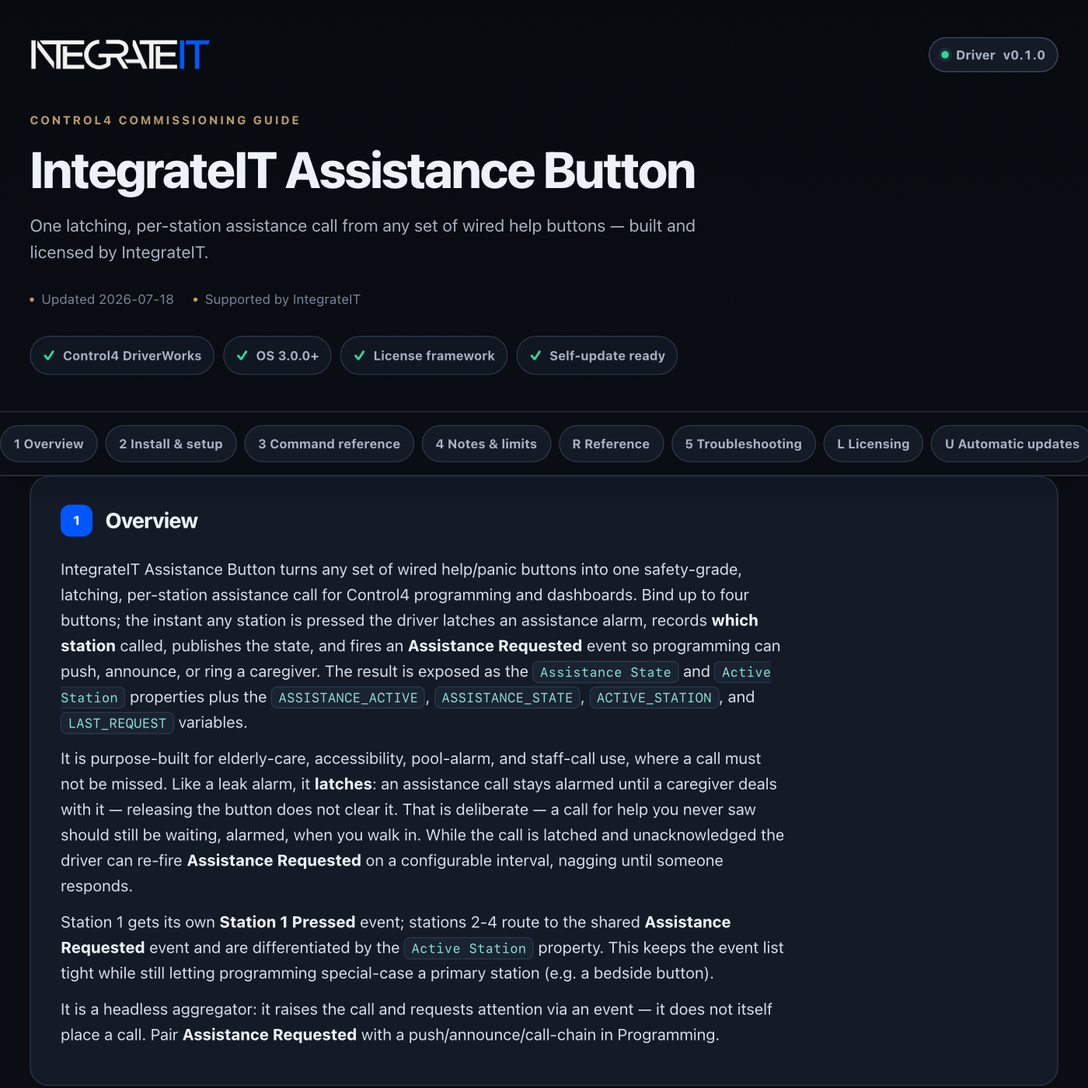
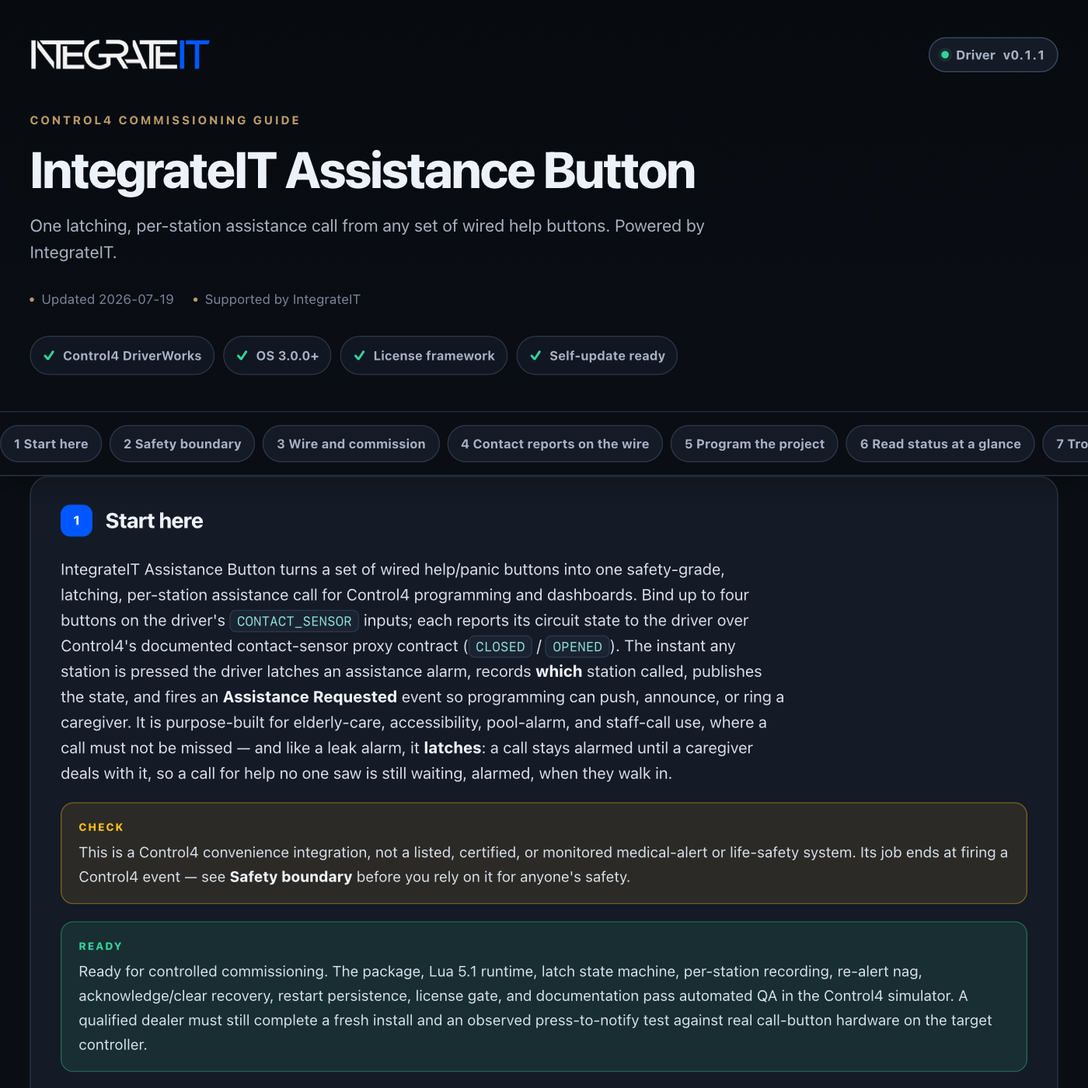
control4: publish driver channel (integrateit_assistance_button 0.1.2)

diff --git a/control4/integrateit_assistance_button/documentation.html b/control4/integrateit_assistance_button/documentation.html
@@ -179,13 +179,13 @@ td code{white-space:normal}
     <div class="wrap">
       <div class="brandbar">
[1 lines of base64/hex data omitted]
-        <span class="version"><span class="word">Driver</span> v0.1.1</span>
+        <span class="version"><span class="word">Driver</span> v0.1.2</span>
       </div>
       <p class="eyebrow">Control4 commissioning guide</p>
       <h1>IntegrateIT Assistance Button</h1>
-      <p class="sub">One latching, per-station assistance call from any set of wired help buttons — built and licensed by IntegrateIT.</p>
+      <p class="sub">One latching, per-station assistance call from any set of wired help buttons. Powered by IntegrateIT.</p>
       <div class="meta">
-        <span>Updated 2026-07-19</span>
+        <span>Updated 2026-07-26</span>
         <span>Supported by IntegrateIT</span>
       </div>
       <div class="readiness" aria-label="Driver capabilities">
@@ -198,56 +198,129 @@ td code{white-space:normal}
   </header>
 
   <div class="toc-wrap">
-    <nav class="toc wrap" aria-label="Documentation sections"><a href="#overview">1 Overview</a><a href="#install">2 Install &amp; setup</a><a href="#commands">3 Command reference</a><a href="#notes">4 Notes &amp; limits</a><a href="#reference">R Reference</a><a href="#troubleshooting">5 Troubleshooting</a><a href="#licensing">L Licensing</a><a href="#updates">U Automatic updates</a><a href="#changelog">V Version history</a></nav>
+    <nav class="toc wrap" aria-label="Documentation sections"><a href="#overview">1 Start here</a><a href="#safety">2 Safety boundary</a><a href="#setup">3 Wire and commission</a><a href="#protocol">4 Contact reports on the wire</a><a href="#programming">5 Program the project</a><a href="#status">6 Read status at a glance</a><a href="#troubleshooting">7 Troubleshoot methodically</a><a href="#trust">8 Ownership, privacy, and licensing</a><a href="#reference">R Reference</a><a href="#licensing">L Licensing</a><a href="#updates">U Automatic updates</a><a href="#changelog">V Version history</a></nav>
   </div>
 
   <main class="wrap">
     <section class="card" id="overview" data-card="overview">
-  <h2><span class="n">1</span> Overview</h2>
-  <p>IntegrateIT Assistance Button turns any set of wired help/panic buttons into one safety-grade, latching, per-station assistance call for Control4 programming and dashboards. Bind up to four buttons; the instant any station is pressed the driver latches an assistance alarm, records <b>which station</b> called, publishes the state, and fires an <b>Assistance Requested</b> event so programming can push, announce, or ring a caregiver. The result is exposed as the <code>Assistance State</code> and <code>Active Station</code> properties plus the <code>ASSISTANCE_ACTIVE</code>, <code>ASSISTANCE_STATE</code>, <code>ACTIVE_STATION</code>, and <code>LAST_REQUEST</code> variables.</p>
-  <p>It is purpose-built for elderly-care, accessibility, pool-alarm, and staff-call use, where a call must not be missed. Like a leak alarm, it <b>latches</b>: an assistance call stays alarmed until a caregiver deals with it — releasing the button does not clear it. That is deliberate — a call for help you never saw should still be waiting, alarmed, when you walk in. While the call is latched and unacknowledged the driver can re-fire <b>Assistance Requested</b> on a configurable interval, nagging until someone responds.</p>
-  <p>Station 1 gets its own <b>Station 1 Pressed</b> event; stations 2-4 route to the shared <b>Assistance Requested</b> event and are differentiated by the <code>Active Station</code> property. This keeps the event list tight while still letting programming special-case a primary station (e.g. a bedside button).</p>
-  <p>It is a headless aggregator: it raises the call and requests attention via an event — it does not itself place a call. Pair <b>Assistance Requested</b> with a push/announce/call-chain in Programming.</p>
+  <h2><span class="n">1</span> Start here</h2>
+  <p>IntegrateIT Assistance Button turns a set of wired help/panic buttons into one safety-grade, latching, per-station assistance call for Control4 programming and dashboards. Bind up to four buttons on the driver's <code>CONTACT_SENSOR</code> inputs; each reports its circuit state to the driver over Control4's documented contact-sensor proxy contract (<code>CLOSED</code> / <code>OPENED</code>). The instant any station is pressed the driver latches an assistance alarm, records <b>which</b> station called, publishes the state, and fires an <b>Assistance Requested</b> event so programming can push, announce, or ring a caregiver. It is purpose-built for elderly-care, accessibility, pool-alarm, and staff-call use, where a call must not be missed — and like a leak alarm, it <b>latches</b>: a call stays alarmed until a caregiver deals with it, so a call for help no one saw is still waiting, alarmed, when they walk in.</p>
+  <div class="note warn">This is a Control4 convenience integration, not a listed, certified, or monitored medical-alert or life-safety system. Its job ends at firing a Control4 event — see <b>Safety boundary</b> before you rely on it for anyone's safety.</div>
+  <div class="note good">Ready for controlled commissioning. The package, Lua 5.1 runtime, latch state machine, per-station recording, re-alert nag, acknowledge/clear recovery, restart persistence, license gate, and documentation pass automated QA in the Control4 simulator. A qualified dealer must still complete a fresh install and an observed press-to-notify test against real call-button hardware on the target controller.</div>
+  <p><b>What you get</b></p>
+  <ul>
+    <li>Aggregates 1-4 wired help/panic buttons (<code>CONTACT_SENSOR</code> bindings) into one latching assistance call</li>
+    <li>Latches on the first press and stays alarmed until a caregiver clears it — never auto-clears on a timeout</li>
+    <li>Records which station called: the <code>Active Station</code> property plus a timestamped <code>LAST_REQUEST</code> variable</li>
+    <li>Station 1 fires its own <b>Station 1 Pressed</b> event; stations 2-4 route to the shared <b>Assistance Requested</b> event</li>
+    <li>Optional re-alert nag re-fires <b>Assistance Requested</b> every N seconds while latched and unacknowledged (default 60 s; 0 = alert once)</li>
+    <li><b>Acknowledge</b> silences the nag while keeping the latch and the record; <b>Clear</b> resets the call</li>
+    <li><b>Test</b> fires a drill from station 1 without latching, to prove the notification programming</li>
+    <li>The latch survives a Director/controller restart, with per-wiring press polarity (contact closed or open)</li>
+  </ul>
 </section>
 
-<section class="card" id="install" data-card="install">
-  <h2><span class="n">2</span> Install &amp; setup</h2>
+<section class="card" id="safety" data-card="safety">
+  <h2><span class="n">2</span> Safety boundary</h2>
+  <div class="note warn">A call for help is only useful if it reaches a person. This driver does not dial a phone, page a monitoring center, or guarantee delivery, and it is not a listed, certified, or monitored medical-alert or emergency-response service. Whether help arrives depends entirely on the notification chain you wire in Programming and on the buttons being wired and set correctly.</div>
+  <p>What the driver <b>does</b>: it watches its bound contacts, latches the call on the first press, records the station, publishes the <code>Assistance State</code> / <code>Active Station</code> properties and the four variables, and fires <b>Assistance Requested</b> (plus <b>Station 1 Pressed</b> for station 1). While latched and unacknowledged it can re-fire the event on the re-alert interval.</p>
+  <p>What it <b>cannot</b> do: place a call, send a page, confirm anyone was reached, or observe anything the buttons do not report. State is derived from bound button reports — it is only as accurate as the buttons and the <b>Press Active State</b> polarity, and anything claiming otherwise would be faking it.</p>
+  <p>Latching is deliberate people-safety behavior. A call stays alarmed until a caregiver runs <b>Clear</b>; releasing the button never clears it. A call that latched before a Director or controller restart comes back alarmed on boot — the latch is persisted, so a reboot never silently drops a call for help. <b>Acknowledge</b> only silences the re-alert nag — it keeps the latch and the record so a responder is marked en route, and it does not reset the call. Because this is not a certified life-safety path, do not present it as a substitute for a monitored medical-alert service where a life depends on the call — pair it with one.</p>
+</section>
+
+<section class="card" id="setup" data-card="setup">
+  <h2><span class="n">3</span> Wire and commission</h2>
   <ol class="steps">
-    <li>Add the driver to a room. In Connections, bind each wired help/panic button to <code>Assistance Button 1</code> … <code>Assistance Button N</code>.</li>
-    <li>Set <code>Number of Buttons</code> to how many you wired.</li>
-    <li>Set <code>Press Active State</code> to match your buttons: most wired call buttons <b>close</b> the circuit when pressed (the default, <b>Contact Closed</b>); some report the opposite — use <b>Contact Open</b> if the alarm reads inverted.</li>
-    <li>Optionally name each station with <code>Station 1 Label</code> … <code>Station 4 Label</code> (e.g. *Master Bath*, *Poolside*) — the names show up in <code>Active Station</code> and <code>LAST_REQUEST</code>.</li>
-    <li>In Programming, react to <b>Assistance Requested</b> (and <b>Station 1 Pressed</b> if you want a primary station to behave differently) by triggering a push notification, an announcement, or a call chain. Read <code>Active Station</code> to say where to go.</li>
-    <li>Optionally set <code>Re-alert Interval (s)</code> above 0 to re-fire <b>Assistance Requested</b> every N seconds while the call stays latched and unacknowledged (a nag for the notification chain). Set it to 0 for alert-once.</li>
-    <li>When a caregiver responds, use <b>Acknowledge</b> to silence the nag while keeping the call on record, then <b>Clear</b> once the person has been helped.</li>
+    <li>Add <b>IntegrateIT Assistance Button</b> to a room. In Connections, bind each wired help/panic button to <b>Assistance Button 1</b> … <b>Assistance Button 4</b>.</li>
+    <li>Set <b>Number of Buttons</b> to how many you wired (1-4). A report on a binding above this count is ignored.</li>
+    <li>Set <b>Press Active State</b> to match the wiring. Most wired call buttons <b>close</b> the circuit when pressed (<b>Contact Closed</b>, the default); use <b>Contact Open</b> if the alarm reads inverted.</li>
+    <li>Optionally name each station with <b>Station 1 Label</b> … <b>Station 4 Label</b> (e.g. *Master Bath*, *Poolside*) — the label shows up in <code>Active Station</code> and <code>LAST_REQUEST</code>. An unnamed station reads as "Station N".</li>
+    <li>Set <b>Re-alert Interval (s)</b>. It defaults to a 60-second nag that re-fires <b>Assistance Requested</b> while a call is latched and unacknowledged; raise it up to 600, or set it to 0 to alert once.</li>
+    <li>In Programming, bind <b>Assistance Requested</b> to a push, an announcement, or a call chain (and <b>Station 1 Pressed</b> if a primary station should behave differently). Read <code>Active Station</code> to say where to go.</li>
+    <li>Prove it: press a wired button and watch <b>Assistance State</b> flip to <b>Assistance Requested</b>, <b>Active Station</b> name the station, and your bound notification fire. Run <b>Test</b> to confirm the drill fires the same notification without latching, then <b>Clear</b> to reset.</li>
   </ol>
 </section>
 
-<section class="card" id="commands" data-card="commands">
-  <h2><span class="n">3</span> Command reference</h2>
+<section class="card" id="protocol" data-card="protocol">
+  <h2><span class="n">4</span> Contact reports on the wire</h2>
+  <p>A dealer watching <b>Debug Mode → Print</b> sees exactly these reports arrive on each button binding:</p>
   <table>
-    <tr><th>Action</th><th>What it does</th></tr>
-    <tr><td>Acknowledge</td><td>Silences the re-alert nag. The call stays latched and the station stays on record — this only stops the repeat notifications so a caregiver is marked en route.</td></tr>
-    <tr><td>Clear</td><td>Resets the call to <b>Clear</b>, cancels the nag, clears the recorded station, and fires <b>Assistance Cleared</b>. Use it once the person has been helped.</td></tr>
-    <tr><td>Test</td><td>Fires <b>Assistance Requested</b> as a drill from station 1, without latching and without changing recorded state — use it to prove the notification programming.</td></tr>
-    <tr><td>Print Configuration</td><td>Prints the button count, polarity, re-alert interval, and current state to the Lua output window.</td></tr>
+    <tr><th>Report</th><th>Meaning</th></tr>
+    <tr><td><code>CLOSED</code> / <code>OPENED</code></td><td>A live circuit change — a genuine transition that can latch and fire</td></tr>
+    <tr><td><code>STATE_CLOSED</code> / <code>STATE_OPENED</code></td><td>The bind-time snapshot of the button's state — absorbed silently (state restored, no event, no nag)</td></tr>
   </table>
-  <p><b>Events:</b> *Assistance Requested*, *Assistance Cleared*, *Assistance Acknowledged*, *Station 1 Pressed*. <b>Variables:</b> <code>ASSISTANCE_ACTIVE</code> (bool), <code>ASSISTANCE_STATE</code> (Clear/Assistance Requested), <code>ACTIVE_STATION</code> (last station to call), <code>LAST_REQUEST</code> (station + timestamp of the latching press).</p>
+  <p>Whether a circuit state counts as <b>pressed</b> follows <b>Press Active State</b>: the default pressed-on-closed treats <code>CLOSED</code> as pressed, and pressed-on-open treats <code>OPENED</code> as pressed. Only a real released→pressed transition fires — a repeated pressed report from a held button is filtered, so a hold never re-nags. A report on a binding above <b>Number of Buttons</b> is dropped.</p>
 </section>
 
-<section class="card" id="notes" data-card="notes">
-  <h2><span class="n">4</span> Notes &amp; limits</h2>
+<section class="card" id="programming" data-card="programming">
+  <h2><span class="n">5</span> Program the project</h2>
+  <table>
+    <tr><th>Action</th><th>What it does</th></tr>
+    <tr><td>Acknowledge</td><td>Silences the re-alert nag; the call stays latched and the station stays on record so a caregiver is marked en route. A no-op when there is no active call.</td></tr>
+    <tr><td>Clear</td><td>Resets the call to <b>Clear</b>, cancels the nag, clears the recorded station, and fires <b>Assistance Cleared</b>. A no-op when there is no active call.</td></tr>
+    <tr><td>Test</td><td>Fires a drill <b>Assistance Requested</b> without latching or changing the recorded station — use it to prove the notification programming. License-gated (see below).</td></tr>
+    <tr><td>Print Configuration</td><td>Prints the button count, polarity, re-alert interval, and current state to the Lua output window. Never prints the license key.</td></tr>
+  </table>
+  <table>
+    <tr><th>Event</th><th>Fires when</th></tr>
+    <tr><td>Assistance Requested</td><td>A station latched the call, the re-alert nag re-fired, a second station called during an active call, or a Test drill ran</td></tr>
+    <tr><td>Assistance Cleared</td><td>A caregiver cleared the call</td></tr>
+    <tr><td>Assistance Acknowledged</td><td>A caregiver acknowledged the call; the nag stops, the latch stays</td></tr>
+    <tr><td>Station 1 Pressed</td><td>Assistance Button 1 was pressed (stations 2-4 route to Assistance Requested)</td></tr>
+  </table>
+  <table>
+    <tr><th>Variable</th><th>Type</th><th>Meaning</th></tr>
+    <tr><td><code>ASSISTANCE_ACTIVE</code></td><td>BOOL</td><td>True while a call is latched</td></tr>
+    <tr><td><code>ASSISTANCE_STATE</code></td><td>STRING</td><td><code>Clear</code> or <code>Assistance Requested</code></td></tr>
+    <tr><td><code>ACTIVE_STATION</code></td><td>STRING</td><td>The station that most recently called, or <code>None</code></td></tr>
+    <tr><td><code>LAST_REQUEST</code></td><td>STRING</td><td>Station label + timestamp of the most recent call</td></tr>
+  </table>
+  <p>Recipes:</p>
   <ul>
-    <li><b>Latching is by design.</b> A call stays alarmed until a caregiver Clears it; releasing the button never clears it. Acknowledge only quiets the nag — it does not clear the latch.</li>
-    <li>A second station pressed while already latched <b>re-fires Assistance Requested</b> and updates <code>Active Station</code> and <code>LAST_REQUEST</code>, but does not re-latch or reset an acknowledgement — the first call remains the active alarm, and a concurrent call for help is never silently swallowed (even after an Acknowledge has quieted the nag).</li>
-    <li><b>The latch survives a controller/Director restart.</b> A call that was latched before a reboot comes back alarmed — the state, active station, and re-alert nag are restored on boot rather than reset to Clear.</li>
-    <li>Only station 1 has a dedicated <b>Station 1 Pressed</b> event; stations 2-4 share <b>Assistance Requested</b>. Read <code>Active Station</code> to tell them apart in Programming.</li>
-    <li>Accuracy follows the buttons: pick the correct <code>Press Active State</code> polarity, or the driver will read pressed/released inverted.</li>
-    <li>The bind-time state of each button is absorbed silently — a station already reading pressed at bind restores the latched state without firing an event or starting a nag.</li>
+    <li><b>When Assistance Requested fires</b> → send a push and announce "Assistance needed at " + <code>ACTIVE_STATION</code>, then start a call chain. Read <code>Active Station</code> so the caregiver knows where to go.</li>
+    <li><b>When Station 1 Pressed fires</b> → special-case the primary (bedside) button — for example flash the bedroom lights on top of the shared notification.</li>
+    <li><b>When Assistance Cleared fires</b> → log the resolution and reset any lights or announcements the call turned on.</li>
   </ul>
+  <div class="note">A second station pressed during an active call re-fires <b>Assistance Requested</b> and moves <code>Active Station</code> / <code>LAST_REQUEST</code> to the new caller — a concurrent emergency is never silently swallowed — but it does not re-latch or reset an acknowledgement. The first call remains the active alarm.</div>
+  <p>Button presses, latching, the re-alert nag, <b>Acknowledge</b>, and <b>Clear</b> are never license-gated — a people-safety recovery must always be reachable, or the alarm becomes an unsilenceable trap. Only the <b>Test</b> drill is blocked under Strict enforcement on an unlicensed controller.</p>
+</section>
+
+<section class="card" id="status" data-card="status">
+  <h2><span class="n">6</span> Read status at a glance</h2>
+  <table>
+    <tr><th>Property / variable</th><th>Healthy result</th><th>What it tells you</th></tr>
+    <tr><td><code>Assistance State</code></td><td><code>Clear</code> when idle; <code>Assistance Requested</code> while latched</td><td>The latched truth — only <b>Clear</b> resets it</td></tr>
+    <tr><td><code>ASSISTANCE_ACTIVE</code></td><td><code>0</code> idle, <code>1</code> latched</td><td>The boolean to gate automation on</td></tr>
+    <tr><td><code>Active Station</code></td><td><code>None</code> when idle; the station label while latched</td><td>Who called most recently — drives "where to go" programming</td></tr>
+    <tr><td><code>LAST_REQUEST</code></td><td>Station label + timestamp of the last call</td><td>Empty until the first call</td></tr>
+  </table>
+  <p>Gate automation on <code>ASSISTANCE_ACTIVE</code> or <code>Assistance State</code> for the latched state, and read <code>Active Station</code> / <code>LAST_REQUEST</code> for who and when. <b>Print Configuration</b> writes the configuration and current state to the Lua output window and never prints the license key.</p>
+</section>
+
+<section class="card" id="troubleshooting" data-card="troubleshooting">
+  <h2><span class="n">7</span> Troubleshoot methodically</h2>
+  <table>
+    <tr><th>Symptom</th><th>Likely cause</th><th>Fix</th></tr>
+    <tr><td>A press does nothing at all</td><td>Button not bound, or bound above <code>Number of Buttons</code></td><td>Bind it to Assistance Button 1-4 and raise <code>Number of Buttons</code> to cover every wired input</td></tr>
+    <tr><td>Idle reads as alarmed, or a press is missed</td><td>Wrong <code>Press Active State</code> polarity</td><td>Match the button — Contact Closed for most wired call buttons, Contact Open if inverted</td></tr>
+    <tr><td>The call won't clear</td><td>Using <b>Acknowledge</b> instead of <b>Clear</b></td><td>Acknowledge only silences the nag; use <b>Clear</b> to reset the call</td></tr>
+    <tr><td>Notifications keep repeating</td><td><code>Re-alert Interval (s)</code> is set and the call is unacknowledged</td><td>Acknowledge to silence the nag, or set the interval to 0 for alert-once</td></tr>
+    <tr><td>Can't tell which station called</td><td>Reading only the event</td><td>Read <code>Active Station</code> / <code>ACTIVE_STATION</code> / <code>LAST_REQUEST</code> — the event alone does not carry the station</td></tr>
+    <tr><td>The call latches but no one is notified</td><td>No notification chain bound to <b>Assistance Requested</b></td><td>Bind a push/announce/call chain in Programming — the driver fires the event, it does not place the call</td></tr>
+    <tr><td><b>Test</b> does nothing on a production controller</td><td>Strict enforcement + unlicensed (Test is the only gated action)</td><td>Activate a license, or use Lenient during commissioning</td></tr>
+  </table>
+  <div class="note">Turn on <code>Debug Mode → Print</code> to watch button transitions and the latch/clear decisions in the Lua output window.</div>
+  <p>Still stuck after those checks: contact IntegrateIT support (address in the Reference below) with the Lua output and your button-wiring details.</p>
+</section>
+
+<section class="card" id="trust" data-card="trust">
+  <h2><span class="n">8</span> Ownership, privacy, and licensing</h2>
+  <p>This package is an original IntegrateIT implementation built on Control4's documented contact-sensor proxy contract. It does not bundle another vendor's runtime, source code, brand assets, trial system, or license. Driver engineering, Control4 integration, documentation, QA, licensing, updates, and support are provided by IntegrateIT.</p>
+  <p>Nothing leaves the LAN. The driver reads local contact reports and publishes local Control4 variables, properties, and events; it sends no button state, customer identity, or project identity to any device vendor or cloud. There are no device credentials or tokens to store, and <b>Print Configuration</b> never prints the license key.</p>
+  <p>Lenient mode (the default) runs and keeps <code>License Status</code> visible with a nag for a key. Strict mode blocks the license-gated <b>Test</b> drill on an unlicensed controller — but the people-safety path (button presses, latching, the re-alert nag, <b>Acknowledge</b>, and <b>Clear</b>) is never gated, so a real call can always be raised, silenced, and cleared. Installing this package does not itself mint or activate a controller license. The shared IntegrateIT license and update services use the controller identity, driver slug, version, configured license key, and update channel as documented in the reference below.</p>
 <section class="card" id="reference" data-card="reference">
   <h2><span class="n">R</span> Reference</h2>
-  <p>Generated from the driver manifest at build time — always matches this build (v0.1.1).</p>
+  <p>Generated from the driver manifest at build time — always matches this build (v0.1.2).</p>
   <h3>Properties</h3>
   <table>
     <tr><th>Property</th><th>Type</th><th>Default</th><th>Description</th></tr>
@@ -299,19 +372,6 @@ td code{white-space:normal}
   </table>
 </section>
 </section>
-
-<section class="card" id="troubleshooting" data-card="troubleshooting">
-  <h2><span class="n">5</span> Troubleshooting</h2>
-  <table>
-    <tr><th>Symptom</th><th>Likely cause</th><th>Fix</th></tr>
-    <tr><td>Call never trips</td><td>Wrong <code>Press Active State</code> polarity</td><td>Most wired call buttons close on press — set polarity to Contact Closed (or the opposite if your button is inverted).</td></tr>
-    <tr><td>Call won't clear</td><td>Using Acknowledge instead of Clear</td><td>Acknowledge only silences the nag. Use <b>Clear</b> to reset the call to Clear.</td></tr>
-    <tr><td>Notifications keep repeating</td><td><code>Re-alert Interval</code> is set and the call is unacknowledged</td><td>Acknowledge to silence the nag, or set the interval to 0 for alert-once.</td></tr>
-    <tr><td>Ignores a button</td><td><code>Number of Buttons</code> lower than the bound button's slot</td><td>Raise <code>Number of Buttons</code> to cover every wired input.</td></tr>
-    <tr><td>Can't tell which station called</td><td>Only reading the event</td><td>Read the <code>Active Station</code> property (or <code>ACTIVE_STATION</code> / <code>LAST_REQUEST</code> variables) — the event alone does not carry the station.</td></tr>
-  </table>
-  <div class="note">Turn on <code>Debug Mode → Print</code> to watch button transitions and the latch/clear decisions in the Lua output window.</div>
-</section>
 <section class="card" id="licensing" data-card="licensing">
   <h2><span class="n">L</span> Licensing</h2>
   <p>This driver is licensed <b>per controller</b>. Each license key locks to one controller's
@@ -359,7 +419,9 @@ td code{white-space:normal}
     <section class="card" id="changelog" data-card="changelog">
   <h2><span class="n">V</span> Version history</h2>
   <div class="chg">
-    <div class="rel"><b>v0.1.1</b> <span class="pill green">current</span><span class="d">2026-07-19</span>
+    <div class="rel"><b>v0.1.2</b> <span class="pill green">current</span><span class="d">2026-07-26</span>
+      <ul><li>Documentation rebuilt to the IntegrateIT commissioning-guide standard: uniform sections, honest contracts, verified claim-by-claim against the code.</li></ul></div>
+    <div class="rel"><b>v0.1.1</b><span class="d">2026-07-19</span>
       <ul><li>Hardware-test-worthy polish: correctness, edge-case, timer-hygiene and hardware-readiness fixes with a regression test added per fix</li><li>Shared runtime: a transient license-server error no longer de-licenses a paying controller; repeating-timer callbacks are crash-guarded</li></ul></div>
     <div class="rel"><b>v0.1.0</b><span class="d">2026-07-18</span>
       <ul><li>Initial scaffold (template: contact-relay).</li></ul></div>

diff --git a/control4/integrateit_assistance_button/CHANGELOG.md b/control4/integrateit_assistance_button/CHANGELOG.md
@@ -1,5 +1,8 @@
 # Changelog — IntegrateIT Assistance Button
 
+## [0.1.2] - 2026-07-26
+- Documentation rebuilt to the IntegrateIT commissioning-guide standard: uniform sections, honest contracts, verified claim-by-claim against the code.
+
 ## [0.1.1] - 2026-07-19
 - Hardware-test-worthy polish: correctness, edge-case, timer-hygiene and hardware-readiness fixes with a regression test added per fix
 - Shared runtime: a transient license-server error no longer de-licenses a paying controller; repeating-timer callbacks are crash-guarded
